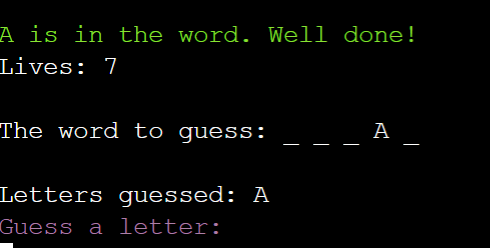
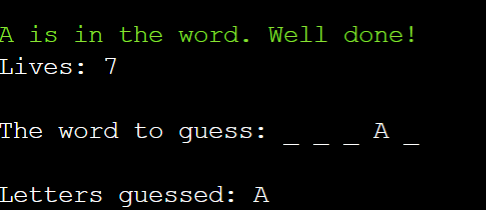
update readme for color changes

diff --git a/README.md b/README.md
@@ -93,7 +93,7 @@ To build a terminal version of Hangman for a developer to use in an IDE environm
 ![Error Meassage](docs/read-me/err-message.png) 
 
 * Color Scheme implemented to add some vibrancy to the game.
-  * Purple for inputs.
+  * Blue for inputs.
   * Red for errors, incorrect guesses and game over.
   * Green for correct guesses and victory.
 
